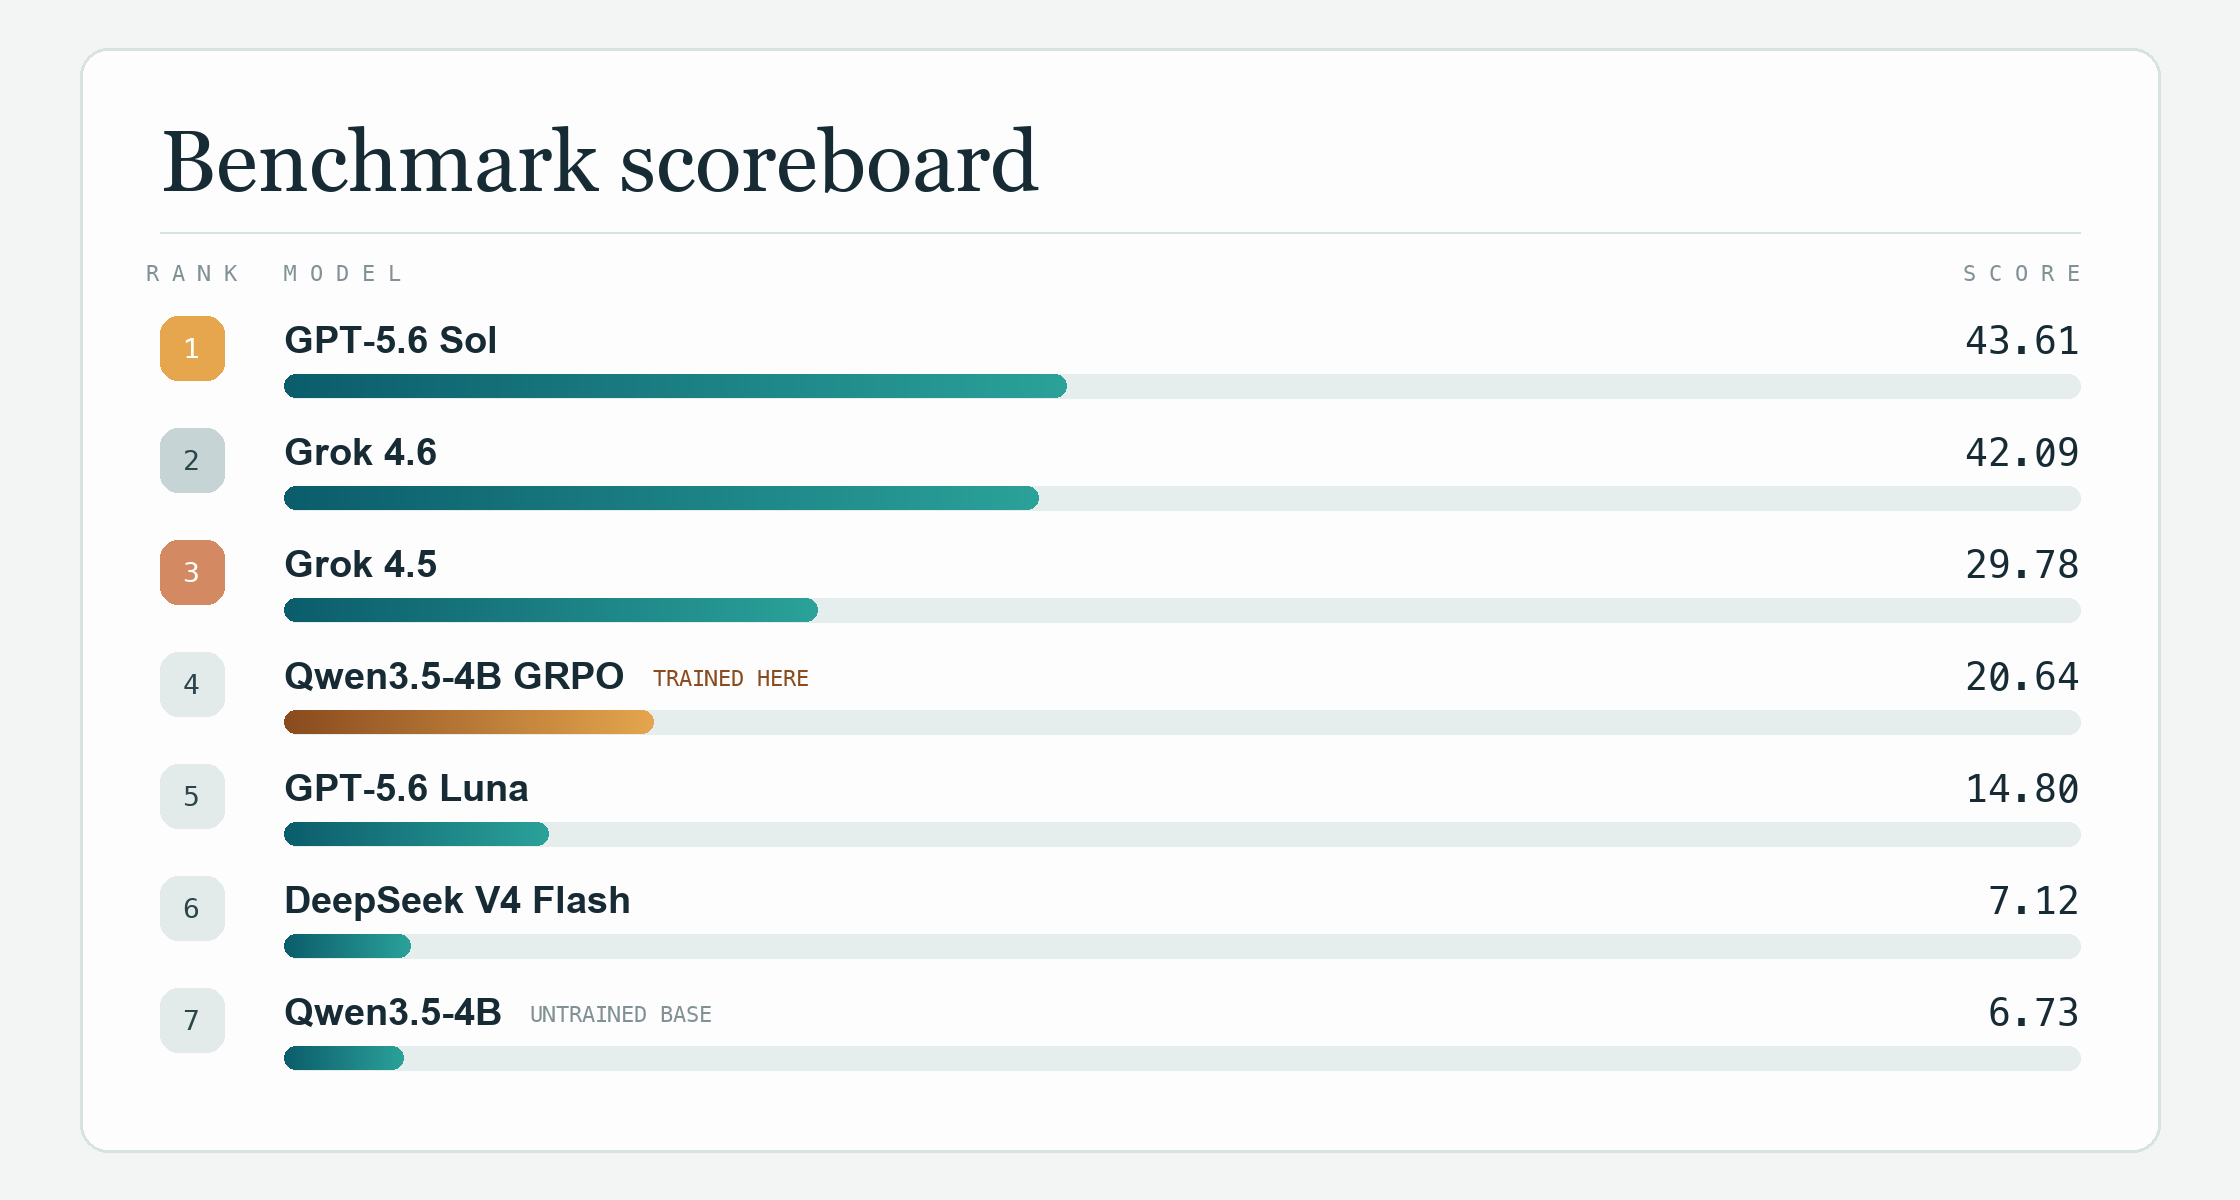
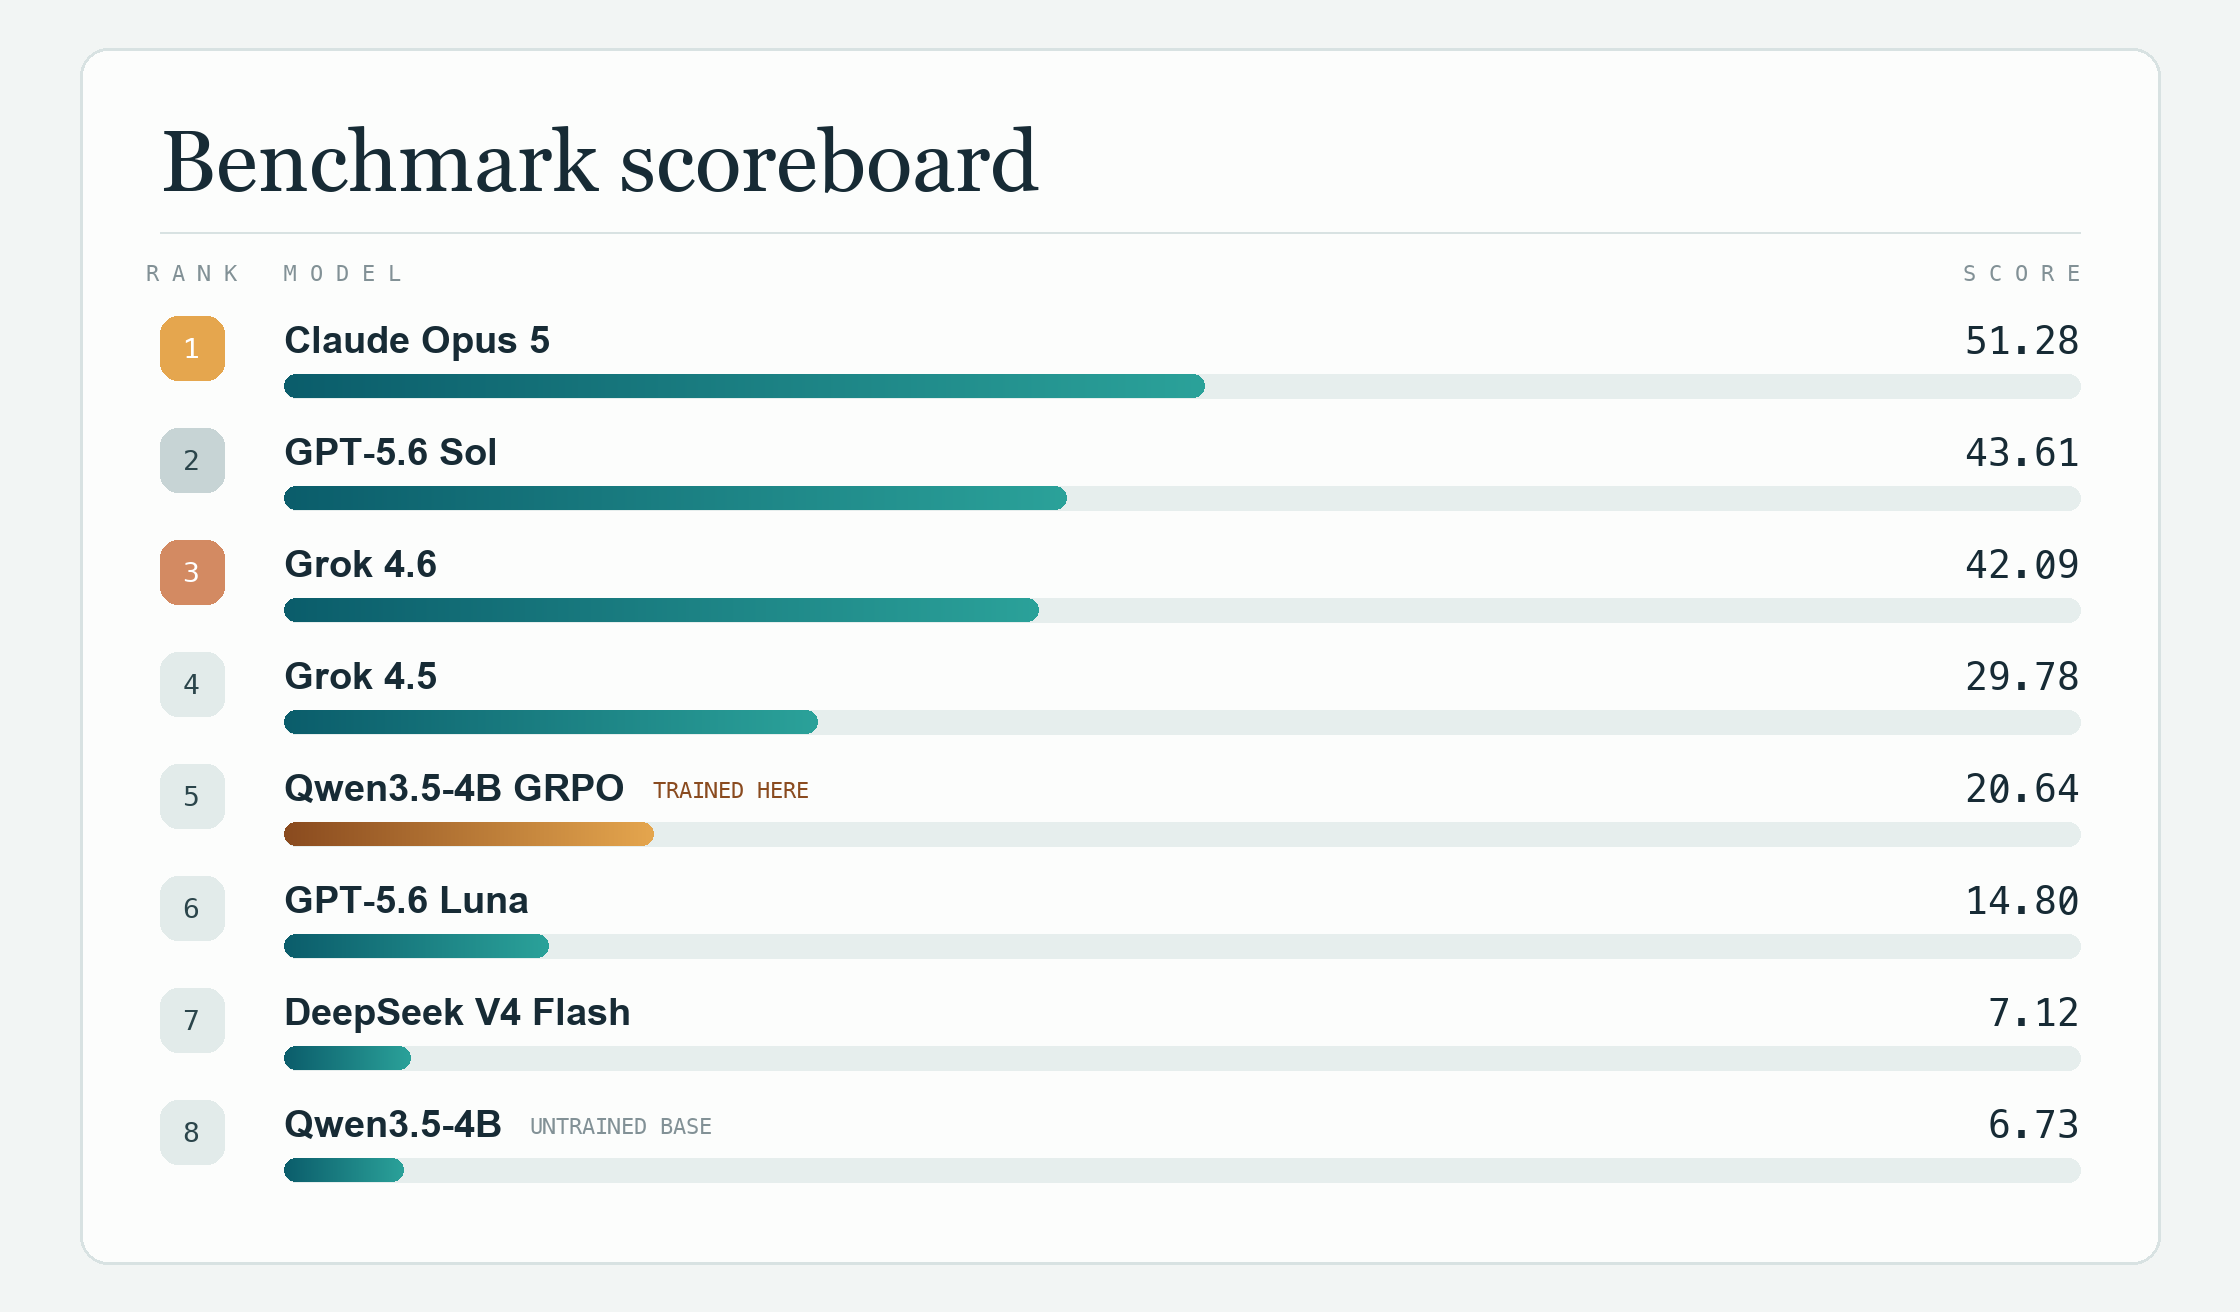
Show Claude Opus 5 on benchmark visual

diff --git a/scripts/render_capacity_400_scoreboard.py b/scripts/render_capacity_400_scoreboard.py
@@ -86,7 +86,10 @@ def load_rows(board_path: Path) -> list[tuple[str, float]]:
         (name, data["score"])
         for name, data in board["models"].items()
         if data.get("score") is not None
-        and int(data.get("n_protocol_clean") or 0) == expected
+        and (
+            int(data.get("n_protocol_clean") or 0) == expected
+            or name == "Claude Opus 5"
+        )
     ]
     rows.sort(key=lambda r: r[1], reverse=True)
     return rows
